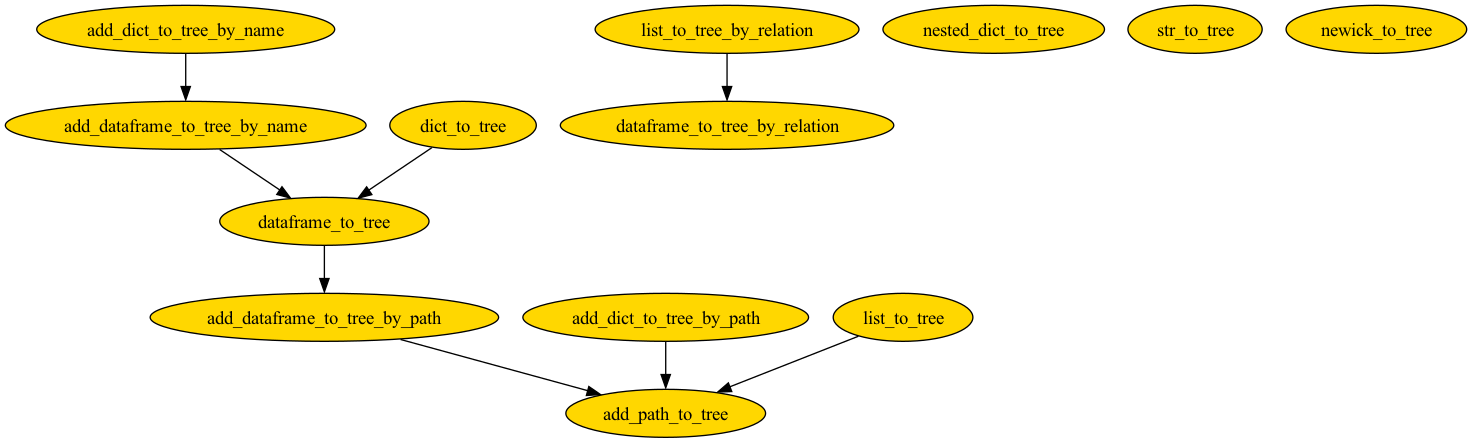
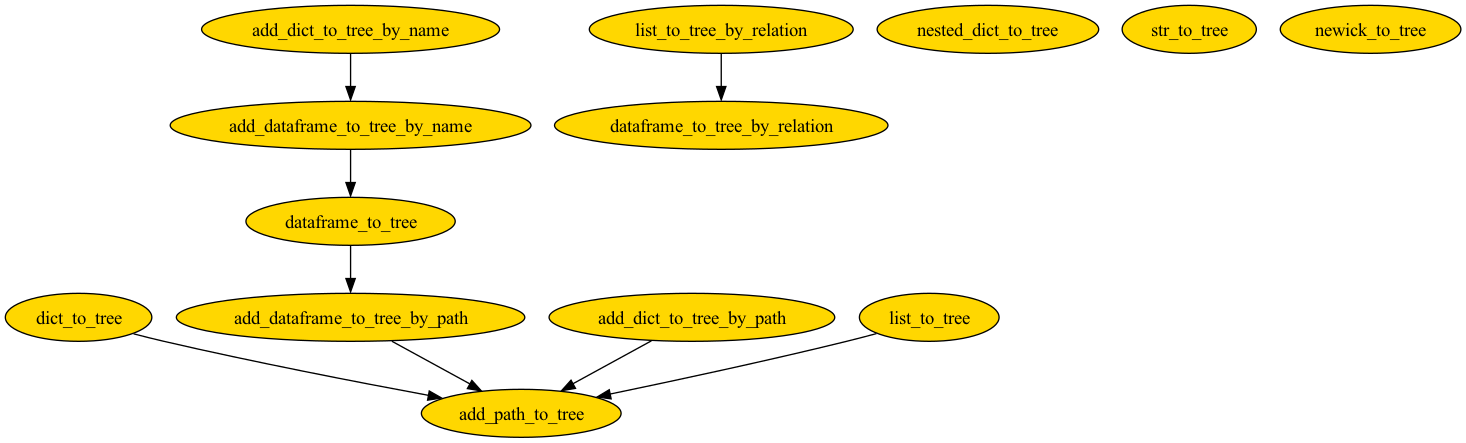
perf: dict_to_tree to not rely on dataframe operations + update contributing and changelog

diff --git a/bigtree/tree/construct.py b/bigtree/tree/construct.py
@@ -622,7 +622,6 @@ def list_to_tree_by_relation(
     )
 
 
-@optional_dependencies_pandas
 def dict_to_tree(
     path_attrs: Dict[str, Any],
     sep: str = "/",
@@ -680,15 +679,24 @@ def dict_to_tree(
     if not len(path_attrs):
         raise ValueError("Dictionary does not contain any data, check `path_attrs`")
 
-    # Convert dictionary to dataframe
-    data = pd.DataFrame(path_attrs).T.rename_axis("PATH").reset_index()
-    data = data.replace({float("nan"): None})
-    return dataframe_to_tree(
-        data,
-        sep=sep,
-        duplicate_name_allowed=duplicate_name_allowed,
-        node_type=node_type,
+    # Initial tree
+    root_name = list(path_attrs.keys())[0].strip(sep).split(sep)[0]
+    root_node_data = dict(
+        path_attrs.get(root_name, {}) or path_attrs.get(sep + root_name, {})
     )
+    root_node_data.update(dict(name=root_name, sep=sep))
+    root_node = node_type(**root_node_data)
+
+    # Convert dictionary to dataframe
+    for node_path, node_attrs in path_attrs.items():
+        add_path_to_tree(
+            root_node,
+            node_path,
+            sep=sep,
+            duplicate_name_allowed=duplicate_name_allowed,
+            node_attrs=node_attrs,
+        )
+    return root_node
 
 
 def nested_dict_to_tree(

diff --git a/tests/tree/test_construct.py b/tests/tree/test_construct.py
@@ -1703,7 +1703,7 @@ class TestDictToTree(unittest.TestCase):
             "a/c": {"age": 60},
         }
         root = dict_to_tree(path_dict)
-        expected_root_str = "a [age=90.0]\n" "├── b\n" "└── c [age=60.0]\n"
+        expected_root_str = "a [age=90]\n" "├── b\n" "└── c [age=60]\n"
         assert_print_statement(print_tree, expected_root_str, root, all_attrs=True)
 
 

diff --git a/docs/contributing.md b/docs/contributing.md
@@ -84,6 +84,7 @@ $ git checkout -b feat/add-this
 ```
 
 During pre-commit checks, this project enforces [conventional commits](https://www.conventionalcommits.org/en/v1.0.0/) when writing commit messages, and checks and formats code using `black`, `flake8`, `isort`, and `mypy`.
+- The regex for conventional commits is as such `(?s)(build|ci|docs|feat|fix|perf|refactor|style|test|chore|revert|bump)(\(\S+\))?!?:( [^\n\r]+)((\n\n.*)|(\s*))?$`.
 
 For testing, this project uses `pytest` and `coverage` package for testing of codes, and `docstr-coverage` and `doctest` package for testing of docstrings.
 

diff --git a/CHANGELOG.md b/CHANGELOG.md
@@ -5,6 +5,10 @@ The format is based on [Keep a Changelog](https://keepachangelog.com/en/1.0.0/),
 and this project adheres to [Semantic Versioning](https://semver.org/spec/v2.0.0.html).
 
 ## [Unreleased]
+### Fixed
+- Tree Constructor: `dict_to_tree` no longer uses dataframe operations, leading to 33% improvement in timings for
+a tree with 10000 nodes, averaged across 10 runs. The resulting data type of node follows the dictionary exactly,
+compared to the previous dataframe operations that may change the dtypes for certain columns.
 
 ## [0.16.4] - 2024-03-14
 ### Fixed
